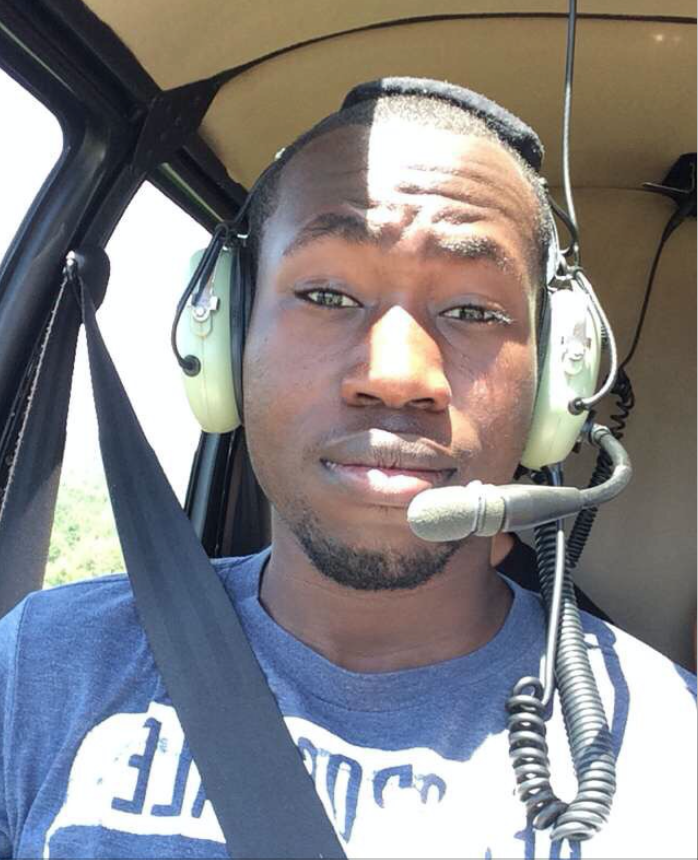
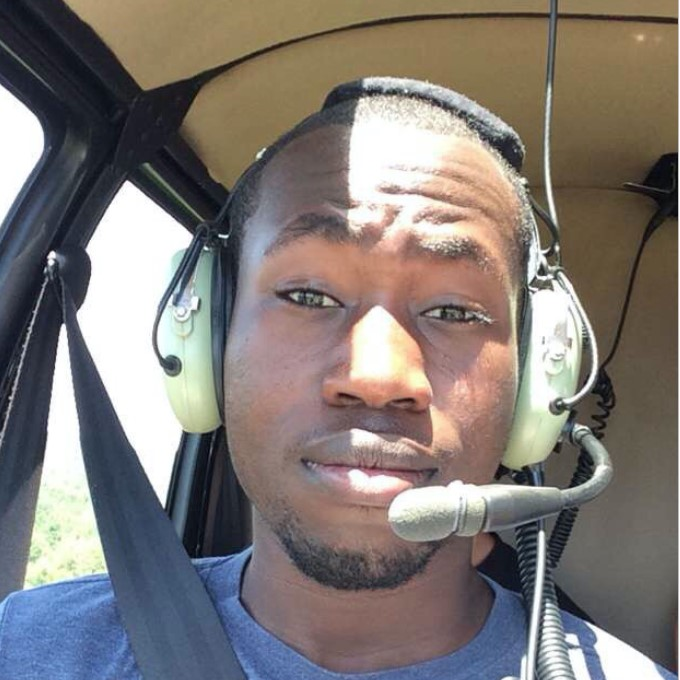
changed about page to respond to bootstrap well. 1 issue when scale down, content is legible. styles.css updated for those changes. hailey and winston pics cropped to be square, like the other 2.

diff --git a/bookswap/public/css/styles.css b/bookswap/public/css/styles.css
@@ -185,6 +185,7 @@ input[type="checkbox"] {
 FAQ stuff...
 --------------------*/
 .bgimg-talkbox {
+    font-size: inherit;
     padding-top: 40px;
     padding-bottom: 5px;
 }
@@ -196,8 +197,10 @@ FAQ stuff...
     background: url('/../img/TalkboxGray@x1.png') no-repeat;
 }
 .bgimg-openbook {
+    font-size: inherit;
     padding-top: 5px;
-    padding-bottom: 40px;
+    padding-bottom: 20px;
+    clear: both;
 }
 .bgimg-openbook-green-dark {
     background: url('/../img/OpenbookGreenDark@x1.png') no-repeat;
@@ -214,6 +217,43 @@ FAQ stuff...
 .bgimg-openbook-gray-light {
     background: url('/../img/OpenbookGrayLight@x1.png') no-repeat;
     background-size: 100% 100%;
+}
+/*--------------------
+About stuff...
+--------------------*/
+.about-bookswap {
+    text-align: center;
+    padding-bottom: 15px;
+}
+.about-left {
+    float: left;
+    padding: 5px;
+}
+.about-right {
+    float: right;
+    padding: 5px;
+}
+.half {
+	width: 50%;
+}
+.pic {
+    width: 30%;
+}
+.content {
+    width: 70%;
+}
+.myPic {
+    width: 150px;
+}
+.myPic.img {
+    max-width: 100%
+    height: auto;
+    padding: 4px;
+    border: 4px solid #AAFF00;
+    border-radius: 4px;
+}
+.myPic:hover{
+    filter: brightness(1.1);
 }
 /*
 @media only screen and (min-width: 1024px) {

diff --git a/bookswap/resources/views/about.blade.php b/bookswap/resources/views/about.blade.php
@@ -1,158 +1,74 @@
 @extends('layouts.app')
-<html>
-<title>Book Swap: About Us Page</title>
-<meta charset="UTF-8">
-<meta name="viewport" content="width=device-width, initial-scale=1">
-<link rel="stylesheet" href="https://www.w3schools.com/lib/w3.css">
-<link rel="shortcut icon" href="{{{ asset('img/favicon.png') }}}">
+<!-- FILE LOCATION: resources\views\layouts\app.blade.php
+NOTE: this consists of the repetitive html & import information -->
+<title>BookSwap | Profile</title>
 
-<style>
-.w3-btn-block{
-    width: 15%;
-    display: block;
-    margin: 0 auto;
-    background-color:#fff ;
-    font-weight: bold;
-    font-size: 15px;
-}
-.w3-btn-block:hover{
-    box-shadow: none;
-    text-decoration: none;
-}
-.myPic {
-    width: 150px;
-    height: 150px;
-    border-radius: 50%;
-    box-shadow: 2px 2px 2px #ccc;
-}
-.myPic:hover{
-    filter: brightness(1.1);
-}
-.w3-row-padding {
-    text-align: center;
-}
-.panel-heading p {
-    font-size:  15px;
-    font-weight: bold;
-    color: #696969;
-    display: inline;
-}
-.panel-heading{
-    text-align: center;
-}
-.footer {
-    right: 0;
-    bottom: 0;
-    left: 0;
-    padding: .2rem;
-    background-color: #efefef;
-    text-align: center;
-}
-ul {
-    list-style-type: none;
-    margin: 0;
-    padding: 0;
-    overflow: hidden;
-}
-li {
-    float: left;
-}
-li a {
-    display: block;
-    color: black;
-    text-align: center;
-    padding: 14px 16px;
-    text-decoration: none;
-}
-li a:hover {
-    text-decoration: none;
-}
-.disabled {
-    pointer-events: none;
-    cursor: default;
-}
-</style>
-
-<body>
-
-    @section('content')
-    <div class="container">
-        <div class="col-sm-offset-2 col-sm-8">
-
-            <div class="panel panel-default">
-                <div class="panel-heading">
-                    <p>  About Book Swap </p>
-                </div>
-
-                <!-- About Section -->
-                <div class="w3-container w3-padding-32" id="about">
-
-                    <center> A web app targeted for GGC students to buy and sell books with other GGC students. We believe that this is a great idea since it facilitates the way people exchange books, and it'll create a closer community and bring students together, compared to something like Facebook.
-                    </center>
-
-                </div>
-
-                <div class="w3-row-padding w3-grayscale">
-                    <div class="w3-col l3 m6 w3-margin-bottom">
-                        <img class="myPic" src="h.jpg" alt="Hailey" height="100" width="150">
+@section('content')
+<div class="container">
+    <div class="panel">
+        <div class="panel-heading"><h1>About</h1></div>
+        <div class="panel-body">
+            <!-- About Section -->
+            <div class="col-md-12" id="about">
+                <p class="about-bookswap">
+                    A web app targeted for GGC students to buy and sell books with other GGC students.<br>
+                    We believe that this is a great idea since it facilitates the way people exchange books,
+                    and it'll create a closer community and bring students together, compared to something like Facebook.
+                </p>
+            </div>
+            <div class="col-md-12 bgimg-openbook bgimg-openbook-gray-dark">
+                <div class="about-left half">
+                    <div class="about-left pic">
+                        <img class="myPic" src="h.jpg" alt="Hailey">
+                    </div>
+                    <div class="about-left content">
                         <h3>Hailey</h3>
-                        <p class="w3-opacity">Project Manager &amp; Back-End Developer</p>
-                        <small><a href="mailto:hmontgomery@ggc.edu">hmontgomery@ggc.edu</a></small>
-                        <!-- <p>Phasellus eget enim eu lectus faucibus vestibulum. Suspendisse sodales pellentesque elementum.</p>-->
+                        <p>
+                            Project Manager &amp; Back-End Developer<br>
+                            <small><a href="mailto:hmontgomery@ggc.edu">hmontgomery@ggc.edu</a></small>
+                        </p>
                     </div>
-
-                    <div class="w3-col l3 m6 w3-margin-bottom">
-                        <img class="myPic" src="w.jpg" alt="Winston" height="100" width="150">
+                </div>
+                <div class="about-right half">
+                    <div class="about-right pic">
+                        <img class="myPic" src="w.jpg" alt="Winston">
+                    </div>
+                    <div class="about-right content">
                         <h3>Winston</h3>
-                        <p class="w3-opacity">Lead Front-End Developer</p>
-                        <small><a href="mailto:akone1@ggc.edu">akone1@ggc.edu</a></small>
-                        <!-- <p>Phasellus eget enim eu lectus faucibus vestibulum. Suspendisse sodales pellentesque elementum.</p>-->
+                        <p>
+                            Lead Front-End Developer<br>
+                            <small><a href="mailto:hmontgomery@ggc.edu">hmontgomery@ggc.edu</a></small>
+                        </p>
                     </div>
-
-                    <div class="w3-col l3 m6 w3-margin-bottom">
-                        <img class="myPic" src="a.jpg" alt="Adam" height="100" width="150">
+                </div>
+            </div>
+            <div class="col-md-12 bgimg-openbook bgimg-openbook-gray-light">
+                <div class="about-left half">
+                    <div class="about-left pic">
+                        <img class="myPic" src="a.jpg" alt="Adam">
+                    </div>
+                    <div class="about-left content">
                         <h3>Adam</h3>
-                        <p class="w3-opacity">Lead Back-End Developer</p>
-                        <small><a href="mailto:aprintz@ggc.edu">aprintz@ggc.edu</a></small>
-                        <!-- <p>Phasellus eget enim eu lectus faucibus vestibulum. Suspendisse sodales pellentesque elementum.</p>-->
+                        <p>
+                            Lead Back-End Developer<br>
+                            <small><a href="mailto:aprintz@ggc.edu">aprintz@ggc.edu</a></small>
+                        </p>
                     </div>
-
-                    <div class="w3-col l3 m6 w3-margin-bottom">
-                        <img class="myPic" src="x.jpg" alt="Xavier" height="100" width="150">
+                </div>
+                <div class="about-right half">
+                    <div class="about-right pic">
+                        <img class="myPic" src="x.jpg" alt="Xavier">
+                    </div>
+                    <div class="about-left content">
                         <h3>Xavier</h3>
-                        <p class="w3-opacity">Graphic Designer &amp; Front-End Developer </p>
-                        <small><a href="mailto:xlazo@ggc.edu">xlazo@ggc.edu</a></small>
-                        <!-- <p>Phasellus eget enim eu lectus faucibus vestibulum. Suspendisse sodales pellentesque elementum.</p>-->
+                        <p>
+                            Graphic Designer &amp; Front-End Developer<br>
+                            <small><a href="mailto:xlazo@ggc.edu">xlazo@ggc.edu</a></small>
+                        </p>
                     </div>
-
-                    <p>
-                        <button class="w3-btn-block"><a href="mailto:bookswapy@gmail.com" target="_top">Email Us</button>
-                    </p>
-
-                    <p><center>
-                        <a rel="license" href="http://creativecommons.org/licenses/by-nc-nd/4.0/">
-                            <img alt="Creative Commons License" style="border-width:0" src="https://i.creativecommons.org/l/by-nc-nd/4.0/88x31.png" />
-                        </a>
-                        <br><br>This work is licensed under a
-                        <a rel="license" href="http://creativecommons.org/licenses/by-nc-nd/4.0/">
-                            Creative Commons Attribution-NonCommercial-NoDerivatives 4.0 International License
-                        </a>.
-                    </center></p>
                 </div>
             </div>
         </div>
-    </div> <!-- End page content -->
-
-    <!-- Footer -->
-    <div class="footer">
-        <ul>
-            <li><a href="{{ url('/home') }}">Home</a></li>
-            <li><a href="{{ url('/about') }}">About</a></li>
-            <li><a href="{{ url('/faq') }}">FAQ</a></li>
-            <li style="float:right"><a class="disabled" href="#copyright">Copyright &copy; 2017 <strong>BookSwap</strong>. All Rights Reserved.</a></li>
-        </ul>
     </div>
-</body>
-</html>
-
+</div> <!-- End page content -->
 @endsection
